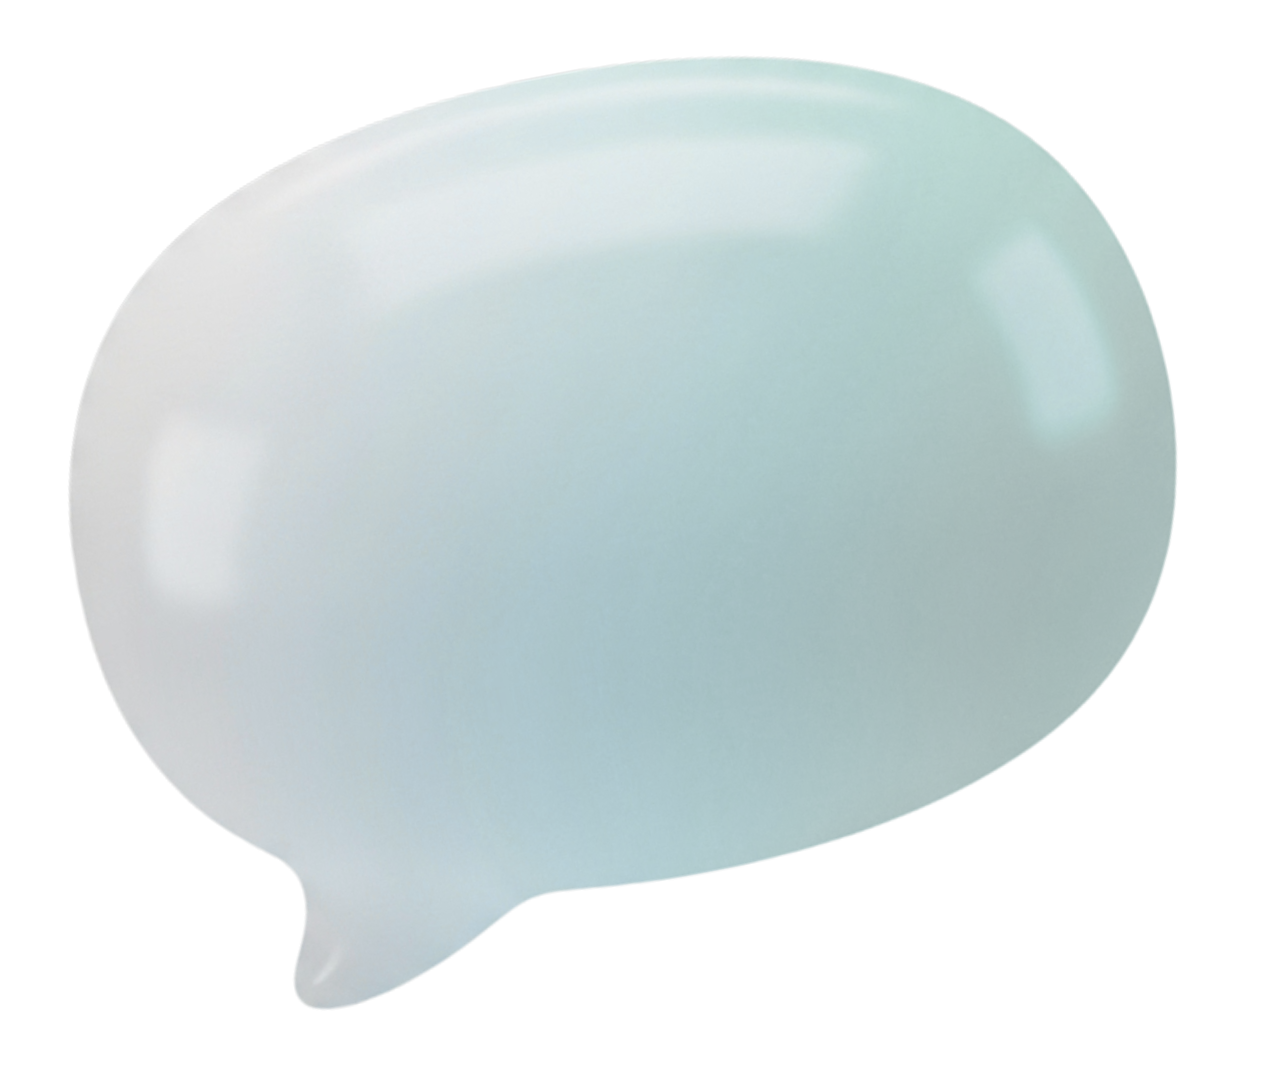
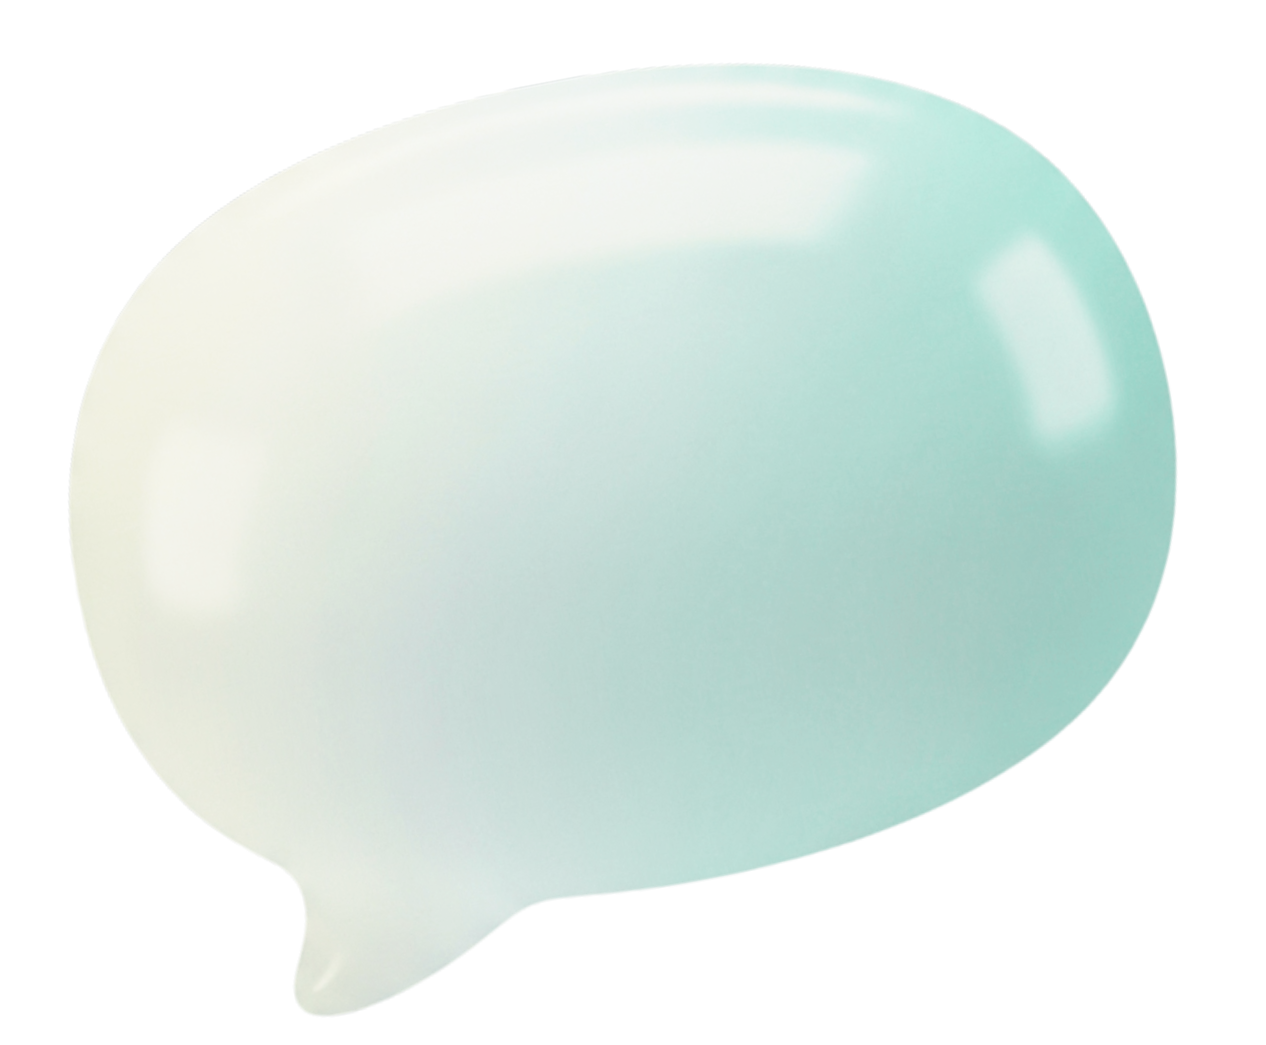
cambio de burbuja
me gusto mas esta nose

diff --git a/chatbot-clinica/src/App.js b/chatbot-clinica/src/App.js
@@ -1,18 +1,16 @@
 import React, { useEffect } from "react";
 import Chatbot from "./components/Chatbot";
 
-// Importa tus imágenes de personajes del lado izquierdo
+
 import charLeft1 from './assets/personaje.png';
 import charLeft2 from './assets/personaje1.png';
 import charLeft3 from './assets/personaje2.png';
 
-// Importa tus imágenes de personajes del lado derecho
 import charRight1 from './assets/personaje1.png';
 import charRight2 from './assets/personaje.png';
 import charRight3 from './assets/personaje4.png';
 
-// *** NUEVO: Importa la imagen de tu burbuja aquí ***
-import bubbleImage from './assets/burbuja.png'; // Asegúrate de que esta ruta sea correcta
+import bubbleImage from './assets/burbuja.png'; 
 
 function App() {
   const leftCharacterImages = [
@@ -27,9 +25,8 @@ function App() {
     charRight3
   ];
 
-  // Lista de emojis normales (Unicode)
   const unicodeEmojis = [
-    '😀', '👍', '💡', '🚀', '🌟', '😊', '🎉', '💖', '🤩', '🥳', '✨'
+    '😀', '👍', '💡', '🚀', '🌟', '😊', '🎉', '💖', '🤩', '🥳', '✨', '🩺', '😷'
   ];
 
   useEffect(() => {
